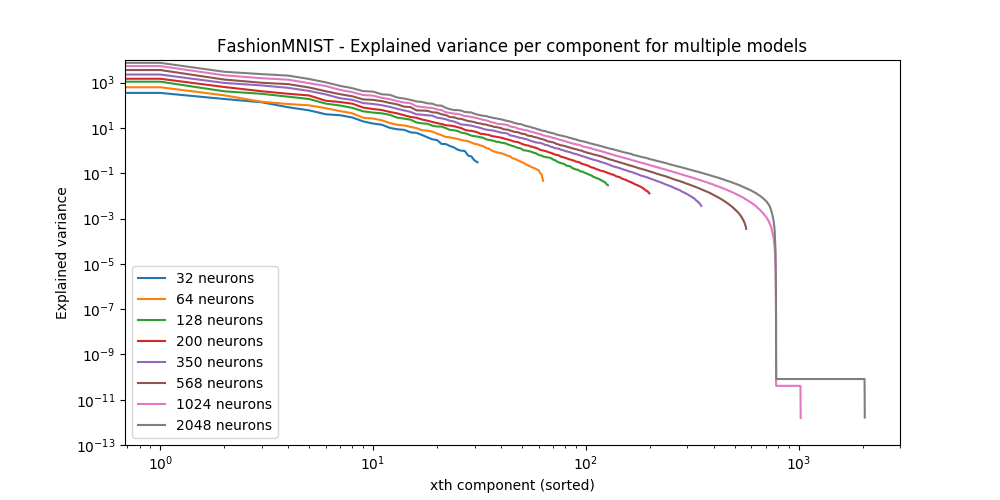
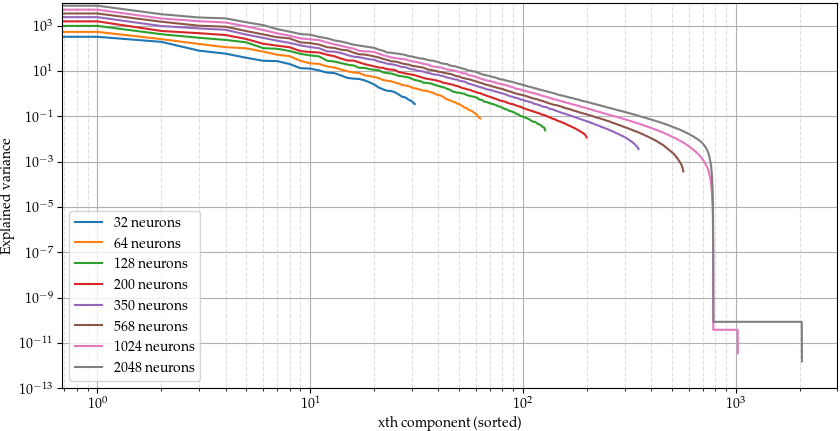
Add 1 more PCA experiment and update the plots

diff --git a/pca_metric.py b/pca_metric.py
@@ -13,6 +13,11 @@ from sklearn.decomposition import PCA
 from scipy.linalg import inv, norm
 from algorithms.exp_norm_mixture_fit import fit as fit_exp_norm
 from algorithms.digamma_mixture_fit import fit as fit_digamma
+from matplotlib import rc, use
+rc('font',**{'family':'serif','serif':['Palatino']})
+rc('text', usetex=True)
+
+with_title = False
 
 from models.MNIST_1h import MNIST_1h
 
@@ -67,6 +72,7 @@ def get_activations(model, loader):
     result = torch.cat(outputs, 0)
     return result - result.mean(0)
 
+
 def simplify_all(values, basis):
     D = torch.inverse(basis).mm(values.transpose(0, 1))
     result = D.clone().zero_()
@@ -89,6 +95,26 @@ def get_distances(activations, pcas):
         results.append(np.array(errs))
     return results
 
+def get_accuracies(models, loader, pcas):
+    results = []
+    for pca, model in zip(pcas, models):
+        model_accuracies = []
+        for images, labels in loader:
+            images = wrap(Variable(images, volatile=True))
+            a = model.partial_forward(images, False).data
+            accs_per_components = []
+            for reconstructed in simplify_all(a, wrap(torch.from_numpy(pca.components_))):
+                x = model.activation(reconstructed)
+                x = model.output_layer(x)
+                prediction = x.max(1)[1].data.cpu()
+                cac = (labels == prediction).sum()
+                accs_per_components.append(cac)
+            model_accuracies.append(accs_per_components)
+        model_accuracies = np.array(model_accuracies).sum(0) / 60000
+        results.append(model_accuracies)
+        print(model_accuracies)
+    return results
+
 def get_dl(dataset, prefix):
     return DataLoader(
         dataset(
@@ -108,7 +134,8 @@ def get_pca(activations):
 
 def plot_variance(variances, prefix):
     plt.figure(figsize=(10, 5))
-    plt.title('%s - Explained variance per component for multiple models' % prefix)
+    if with_title:
+        plt.title('%s - Explained variance per component for multiple models' % prefix)
     for x in variances:
         plt.plot(x, label=('%s neurons' % len(x)))
     plt.yscale('log')
@@ -117,20 +144,51 @@ def plot_variance(variances, prefix):
     plt.xlabel('xth component (sorted)')
     plt.ylabel('Explained variance')
     plt.ylim((1e-13, 1e4))
-    plt.savefig('./plots/%s_1h_pca_explained_variance.png' % prefix)
+    a = plt.gca()
+    a.yaxis.grid(b=True, which='major', linestyle='-')
+    a.yaxis.grid(b=True, which='minor', alpha=0.4, linestyle='--')
+    a.xaxis.grid(b=True, which='major', linestyle='-')
+    a.xaxis.grid(b=True, which='minor', alpha=0.4, linestyle='--')
+    plt.savefig('./plots/%s_1h_pca_explained_variance.png' % prefix,
+                bbox_inches='tight', pad_inches=0)
     plt.close()
 
 def plot_distances(distances, prefix):
     plt.figure(figsize=(10, 5))
-    plt.title('%s - Square distance of PCA reconstruction' % prefix)
+    if with_title:
+        plt.title('%s - Square distance of PCA reconstruction' % prefix)
     for x in distances:
-        plt.plot(x, label=('%s neurons' % len(x)))
+        plt.plot(x, label=('%s neurons' % (len(x) - 1)))
     plt.legend()
     plt.xlabel('Number of components kept')
     plt.ylabel('Mean distance (L2)')
-    plt.savefig('./plots/%s_1h_pca_reconstruction_distance.png' % prefix)
+    a = plt.gca()
+    a.yaxis.grid(b=True, which='major', linestyle='-')
+    a.yaxis.grid(b=True, which='minor', alpha=0.4, linestyle='--')
+    a.xaxis.grid(b=True, which='major', linestyle='-')
+    a.xaxis.grid(b=True, which='minor', alpha=0.4, linestyle='--')
+    plt.savefig('./plots/%s_1h_pca_reconstruction_distance.png' % prefix,
+                bbox_inches='tight', pad_inches=0)
     plt.close()
 
+def plot_accuracies(accuracies, prefix):
+    plt.figure(figsize=(10, 5))
+    for r in accuracies:
+        plt.plot(r, label=('%s neurons' % (len(r) - 1)))
+    plt.xscale('log')
+    plt.ylim((0, 1))
+    plt.xlim(xmin=10)
+    plt.legend()
+    plt.xlabel('Number of components kept')
+    plt.ylabel('Accuracy')
+    a = plt.gca()
+    a.yaxis.grid(b=True, which='major', linestyle='-')
+    a.yaxis.grid(b=True, which='minor', alpha=0.4, linestyle='--')
+    a.xaxis.grid(b=True, which='major', linestyle='-')
+    a.xaxis.grid(b=True, which='minor', alpha=0.4, linestyle='--')
+    plt.savefig('./plots/%s_1h_pca_reconstruction_accuracy.png' % prefix,
+                bbox_inches='tight', pad_inches=0)
+    plt.close()
 
 def pipeline(ds, prefix):
     dl = get_dl(ds, prefix)
@@ -140,8 +198,10 @@ def pipeline(ds, prefix):
     pcas = [get_pca(x) for x in activations]
     variances = [x.explained_variance_ for x in pcas]
     distances = get_distances(activations, pcas)
+    accuracies = get_accuracies(models, dl, pcas)
     plot_distances(distances, prefix)
     plot_variance(variances, prefix)
+    plot_accuracies(accuracies, prefix)
     return distances
 
 if __name__ == '__main__':
